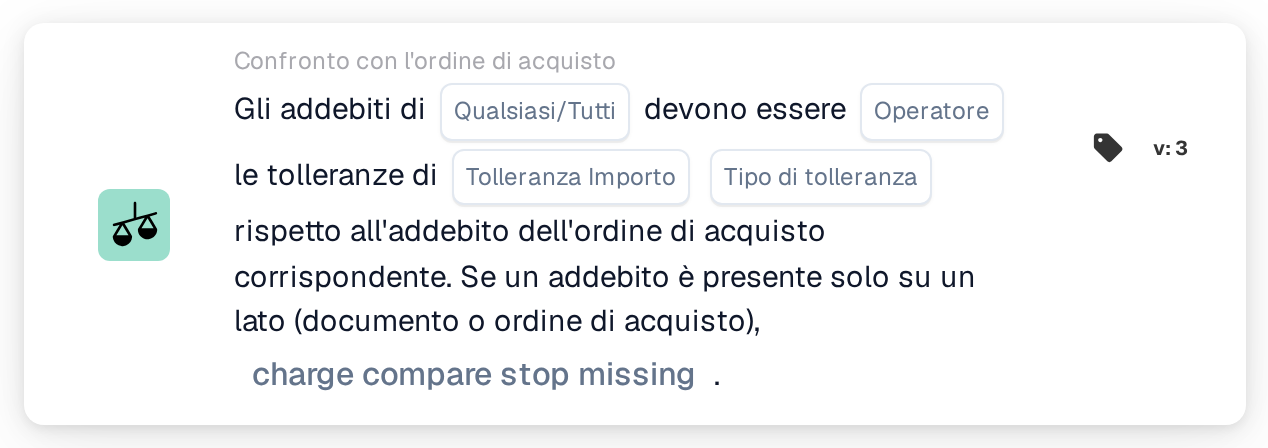
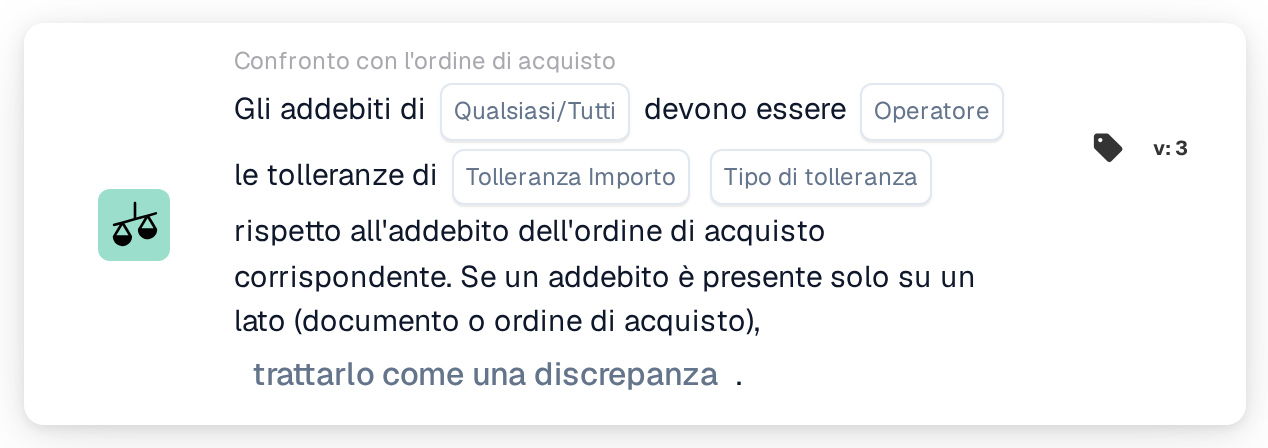
[Documentation_Workflow_Cards] [DRFS-871] add compare charges to po v4

Changed region(s): [[0.1845, 0.8125, 0.5844, 0.875]]

diff --git a/public_docs/administration-and-setup/workflow/and/compare-with-purchase-order/any-all-charges.md b/public_docs/administration-and-setup/workflow/and/compare-with-purchase-order/any-all-charges.md
@@ -4,13 +4,15 @@
 
 <figure><img src="../../../../.gitbook/assets/workflow_card_condition_compare_charges_to_po_v3-it-it.png" alt="Qualsiasi/tutti gli addebiti, Versione 3" width="634"><figcaption><p>Versione 3</p></figcaption></figure>
 
+<figure><img src="../../../../.gitbook/assets/workflow_card_condition_compare_charges_to_po_v4-it-it.png" alt="Scheda di Workflow Confronto con l&#x27;ordine di acquisto: Gli addebiti di Qualsiasi/Tutti devono essere Operatore le tolleranze di Tolleranza Importo Tipo di tolleranza rispetto all&#x27;addebito dell&#x27;ordine di acquisto corrispondente; anche un addebito di 0,00 viene confrontato. Se un addebito è presente solo su un lato (documento o ordine di acquisto), Comportamento relativo ai dati mancanti, Versione 4" width="634"><figcaption><p>Versione 4</p></figcaption></figure>
+
 ## **Scopo:**
 
-Questa scheda di workflow confronta gli addebiti accessori di un documento con gli addebiti accessori dell'ordine di acquisto corrispondente, entro una tolleranza definita. Risponde a una sola domanda: documento e ordine di acquisto concordano sugli addebiti accessori? Viene confrontato ogni addebito che l'abbinamento dell'ordine di acquisto ha appaiato, per cui sulla scheda non occorre indicare alcun nome di campo.
+Questa scheda di Workflow confronta gli addebiti accessori di un documento con gli addebiti accessori dell'ordine di acquisto corrispondente, entro una tolleranza definita. Risponde a una sola domanda: documento e ordine di acquisto concordano sugli addebiti accessori? Viene confrontato ogni addebito che l'abbinamento dell'ordine di acquisto ha appaiato, per cui sulla scheda non occorre indicare alcun nome di campo.
 
 Questa scheda si distingue da **Confronta i costi totali**, che confronta un singolo campo del documento con un unico addebito individuato tramite un Charge ID. Usare questa scheda quando tutti gli addebiti appaiati del documento devono essere verificati in una sola volta.
 
-L'abbinamento dell'ordine di acquisto deve essere eseguito prima di questa scheda. Se il documento non ha un ordine di acquisto corrispondente, la scheda arresta il workflow e segnala dati mancanti.
+L'abbinamento dell'ordine di acquisto deve essere eseguito prima di questa scheda. Se il documento non ha un ordine di acquisto corrispondente, la scheda arresta il Workflow e segnala dati mancanti.
 
 ## **Componenti della scheda:**
 
@@ -31,11 +33,11 @@ L'abbinamento dell'ordine di acquisto deve essere eseguito prima di questa sched
    * **Opzioni**:
      * **Percentuale**: una percentuale dell'addebito dell'ordine di acquisto.
      * **Valore**: un importo fisso.
-5. **Comportamento relativo ai dati mancanti (solo versione 3):**
-   * **Descrizione**: Cosa fare quando un addebito è presente solo su un lato, nel documento o nell'ordine di acquisto, così che non esiste una controparte con cui confrontarlo. L'opzione si trova alla fine della frase della versione 3.
+5. **Comportamento relativo ai dati mancanti (versioni 3 e 4):**
+   * **Descrizione**: Cosa fare quando un addebito è presente solo su un lato, nel documento o nell'ordine di acquisto, così che non esiste una controparte con cui confrontarlo. L'opzione si trova alla fine della frase.
    * **Opzioni**:
-     * **trattarlo come una discrepanza**: il workflow si arresta. È l'impostazione predefinita.
-     * **ignorarlo e trattarlo come corrispondente**: il workflow prosegue come se l'addebito avesse concordato.
+     * **trattarlo come una discrepanza**: il Workflow si arresta. È l'impostazione predefinita.
+     * **ignorarlo e trattarlo come corrispondente**: il Workflow prosegue come se l'addebito avesse concordato.
 
 ## **Funzionalità:**
 
@@ -43,42 +45,58 @@ La scheda percorre i passaggi seguenti.
 
 1. **Richiede un ordine di acquisto corrispondente.** Senza ordine di acquisto corrispondente la scheda si arresta immediatamente e segnala dati mancanti.
 2. **Legge la tolleranza** da **Tolleranza Importo** e **Tipo di tolleranza** sulla scheda.
-3. **La versione 3 classifica ogni riga di ordine di acquisto appaiata** in una di quattro situazioni, chiedendo soltanto se ciascun lato porta un qualsiasi addebito: addebiti su entrambi i lati, nessun addebito su alcuno dei due lati, addebiti solo nel documento, o addebiti solo nell'ordine di acquisto. Una riga che non può essere ricondotta ai dati dell'ordine di acquisto del documento è un errore di dati e la scheda si arresta.
+3. **Le versioni 3 e 4 classificano ogni riga di ordine di acquisto appaiata** in una di quattro situazioni: addebiti su entrambi i lati, nessun addebito su alcuno dei due lati, addebiti solo nel documento, o addebiti solo nell'ordine di acquisto. La versione 3 chiede soltanto se ciascun lato porta un addebito superiore a 0,00. La versione 4 esamina ogni coppia di addebiti e considera 0,00 un valore; solo un addebito senza alcun importo conta come mancante. Vedere **Differenze tra le versioni** più avanti. Una riga che non può essere ricondotta ai dati dell'ordine di acquisto del documento è un errore di dati e la scheda si arresta.
 4. **Un addebito presente su un solo lato decide l'intera scheda.** Appena una riga appaiata porta addebiti su un lato e nessuno sull'altro, **Comportamento relativo ai dati mancanti** decide il risultato e nessun addebito viene confrontato, nemmeno gli addebiti delle righe correttamente appaiate. Operatore e tolleranza non vengono consultati.
-5. **Se nessuna riga porta addebiti su alcuno dei due lati**, entrambi i lati concordano che non vi sono addebiti accessori. L'operatore **All'esterno** non risulta perciò soddisfatto, poiché nulla differisce oltre la tolleranza, e il workflow si arresta. Qualsiasi altro operatore considera l'accordo soddisfatto e il workflow prosegue. **Comportamento relativo ai dati mancanti** non ha alcun effetto qui.
+5. **Se nessuna riga porta addebiti su alcuno dei due lati**, entrambi i lati concordano che non vi sono addebiti accessori. L'operatore **All'esterno** non risulta perciò soddisfatto, poiché nulla differisce oltre la tolleranza, e il Workflow si arresta. Qualsiasi altro operatore considera l'accordo soddisfatto e il Workflow prosegue. **Comportamento relativo ai dati mancanti** non ha alcun effetto qui.
 6. **Altrimenti ogni addebito viene confrontato**, importo del documento contro importo dell'ordine di acquisto, con operatore e tolleranza. Un importo di addebito che non è un numero arresta la scheda con dati mancanti.
-7. **I confronti vengono riuniti e combinati una sola volta.** Ogni addebito di ogni riga appaiata contribuisce a un unico insieme di risultati, che l'impostazione **Qualsiasi/Tutti** riduce all'unico risultato della scheda. La riunione è a livello di documento, non per riga, così che **Qualsiasi** significa qualsiasi addebito in qualsiasi punto del documento. Se il risultato combinato è vero il workflow prosegue, altrimenti si arresta con una condizione non soddisfatta.
+7. **I confronti vengono riuniti e combinati una sola volta.** Ogni addebito di ogni riga appaiata contribuisce a un unico insieme di risultati, che l'impostazione **Qualsiasi/Tutti** riduce all'unico risultato della scheda. La riunione è a livello di documento, non per riga, così che **Qualsiasi** significa qualsiasi addebito in qualsiasi punto del documento. Se il risultato combinato è vero il Workflow prosegue, altrimenti si arresta con una condizione non soddisfatta.
 
 Tre conseguenze vale la pena conoscere prima di configurare la scheda.
 
 * **entro con una tolleranza di 0 richiede l'uguaglianza esatta.** I due importi devono concordare al centesimo.
 * **Un addebito presente su un solo lato prevale su tutto il resto.** Poiché il passaggio 4 viene eseguito prima di qualsiasi confronto, **ignorarlo e trattarlo come corrispondente** salta anche la verifica degli importi di ogni addebito correttamente appaiato del documento. Mantenere **trattarlo come una discrepanza** se gli importi devono essere verificati.
-* **trattarlo come una discrepanza arresta il workflow come errore, non come condizione non soddisfatta.** Nonostante la formulazione, la scheda segnala dati mancanti, che il registro del workflow e il test della scheda mostrano in rosso e non in arancione come una condizione non soddisfatta. Il workflow si arresta in entrambi i casi.
+* **trattarlo come una discrepanza arresta il Workflow come errore, non come condizione non soddisfatta.** Nonostante la formulazione, la scheda segnala dati mancanti, che il registro del Workflow e il test della scheda mostrano in rosso e non in arancione come una condizione non soddisfatta. Il Workflow si arresta in entrambi i casi.
 
 ## **Installazione e configurazione:**
 
-Aggiungere la scheda come condizione And dopo l'abbinamento dell'ordine di acquisto. Scegliere se ogni addebito o qualsiasi addebito deve soddisfare il confronto, scegliere l'operatore **entro** o **All'esterno** e inserire importo e tipo di tolleranza. Nella versione 3, scegliere cosa deve avvenire quando gli addebiti compaiono su un solo lato.
+Aggiungere la scheda come condizione And dopo l'abbinamento dell'ordine di acquisto. Scegliere se ogni addebito o qualsiasi addebito deve soddisfare il confronto, scegliere l'operatore **entro** o **All'esterno** e inserire importo e tipo di tolleranza. Nelle versioni 3 e 4, scegliere cosa deve avvenire quando gli addebiti compaiono su un solo lato.
 
 Per provare una configurazione senza attendere un documento, aprire il menu della scheda nel Workflow Builder, scegliere **Scheda di prova**, scegliere un documento e poi **Test sul documento**. Il registro della scheda elenca ogni addebito confrontato con entrambi gli importi, l'operatore e la tolleranza usata, e annota anche quale valore di **Comportamento relativo ai dati mancanti** ha deciso il risultato quando un addebito era presente su un solo lato.
 
 ## **Scenario di esempio:**
 
-Una conferma d'ordine porta un addebito di trasporto di 100,00 e la riga di ordine di acquisto corrispondente porta lo stesso addebito di trasporto di 100,00. Con **Tutti**, l'operatore **entro** e una tolleranza di 0 come valore, gli importi sono uguali, la scheda è soddisfatta e il workflow prosegue.
+Una conferma d'ordine porta un addebito di trasporto di 100,00 e la riga di ordine di acquisto corrispondente porta lo stesso addebito di trasporto di 100,00. Con **Tutti**, l'operatore **entro** e una tolleranza di 0 come valore, gli importi sono uguali, la scheda è soddisfatta e il Workflow prosegue.
 
-Con 120,00 sulla conferma d'ordine contro 100,00 sull'ordine di acquisto, la stessa configurazione non è soddisfatta e il workflow si arresta con una condizione non soddisfatta.
+Con 120,00 sulla conferma d'ordine contro 100,00 sull'ordine di acquisto, la stessa configurazione non è soddisfatta e il Workflow si arresta con una condizione non soddisfatta.
 
-Se né la conferma d'ordine né l'ordine di acquisto porta alcun addebito, l'operatore **entro** lo considera un accordo e il workflow prosegue, mentre **All'esterno** lo arresta.
+Se né la conferma d'ordine né l'ordine di acquisto porta alcun addebito, l'operatore **entro** lo considera un accordo e il Workflow prosegue, mentre **All'esterno** lo arresta.
 
-Se la conferma d'ordine porta un addebito di trasporto e l'ordine di acquisto nessuno, l'operatore non si applica più. Con **trattarlo come una discrepanza** il workflow si arresta, così che qualcuno possa verificare perché l'addebito figura su un solo lato.
+Se la conferma d'ordine porta un addebito di trasporto e l'ordine di acquisto nessuno, l'operatore non si applica più. Con **trattarlo come una discrepanza** il Workflow si arresta, così che qualcuno possa verificare perché l'addebito figura su un solo lato.
+
+Se la conferma d'ordine riporta l'addebito di trasporto come 0,00 mentre l'ordine di acquisto porta 204,00, la versione 4 confronta i due importi e il Workflow si arresta con una condizione non soddisfatta. La versione 3 leggerebbe lo 0,00 come "nessun addebito nel documento" e lascerebbe il risultato a **Comportamento relativo ai dati mancanti**.
 
 ## **Differenze tra le versioni:**
 
-La versione 3 è quella usata dalle schede nuove. La versione 2 resta supportata nei workflow esistenti. Entrambe le versioni confrontano addebito per addebito e combinano i risultati a livello di documento con l'impostazione **Qualsiasi/Tutti**, ma la versione 2 non ha una classificazione per casi, il che cambia ciò che avviene appena gli addebiti non sono presenti su entrambi i lati:
+La versione 4 è quella usata dalle schede nuove. Le versioni 2 e 3 restano supportate nei Workflow esistenti.
+
+### Versione 4 rispetto alla versione 3
+
+Le due versioni hanno le stesse impostazioni e gli stessi passaggi. Differiscono solo nel modo in cui viene trattato un addebito di 0,00:
+
+* **La versione 3 tratta 0,00 come nessun addebito.** Un addebito del documento di 0,00 appaiato a un addebito dell'ordine di acquisto di 204,00 vale come "l'ordine di acquisto ha addebiti, il documento nessuno", per cui decide **Comportamento relativo ai dati mancanti** e gli importi non vengono mai confrontati. Con **ignorarlo e trattarlo come corrispondente** il Workflow prosegue, sebbene gli importi differiscano.
+* **La versione 4 confronta 0,00 come un importo.** La stessa coppia viene confrontata come qualsiasi altra: 0,00 contro 204,00 non rientra nella tolleranza, per cui il Workflow si arresta con una condizione non soddisfatta. Anche una coppia con 0,00 su entrambi i lati viene confrontata e concorda.
+* **Un addebito senza importo resta mancante nella versione 4.** Quando un lato di una coppia non ha alcun importo, per esempio un addebito che l'ordine di acquisto non porta, decide **Comportamento relativo ai dati mancanti**, come nella versione 3.
+
+Per ottenere questo comportamento in un Workflow esistente, sostituire la scheda della versione 3 con una scheda della versione 4 e impostare gli stessi valori.
+
+### Versione 2
+
+Anche la versione 2 confronta addebito per addebito e combina i risultati a livello di documento con l'impostazione **Qualsiasi/Tutti**, ma non ha una classificazione per casi, il che cambia ciò che avviene appena gli addebiti non sono presenti su entrambi i lati:
 
 * La versione 2 non ha l'opzione **Comportamento relativo ai dati mancanti**. La sua frase termina dopo il tipo di tolleranza.
-* La versione 2 non classifica le righe appaiate e perciò non riconosce un addebito presente su un solo lato. Confronta l'importo presente contro lo 0,00 mantenuto per il lato mancante, e l'operatore decide: **entro** non è soddisfatto e il workflow si arresta, **All'esterno** è soddisfatto e il workflow prosegue. Il registro della scheda mostra il confronto contro 0,00.
+* La versione 2 non classifica le righe appaiate e perciò non riconosce un addebito presente su un solo lato. Confronta l'importo presente contro lo 0,00 mantenuto per il lato mancante, e l'operatore decide: **entro** non è soddisfatto e il Workflow si arresta, **All'esterno** è soddisfatto e il Workflow prosegue. Il registro della scheda mostra il confronto contro 0,00.
 * Se nessuno dei due lati porta addebiti, la versione 2 non ha nulla da confrontare e segnala dati mancanti invece di considerare l'assenza su entrambi i lati come un accordo.
 
 ## **Conclusione:**
 
-La scheda "Any / All Charges" automatizza la verifica che gli addebiti accessori fatturati o confermati corrispondano agli addebiti accessori ordinati. Poiché l'assenza di addebiti su entrambi i lati vale come accordo nella versione 3, i documenti senza addebiti accessori passano senza intervento manuale, mentre gli addebiti che compaiono su un solo lato vengono trattenuti per la verifica, a meno che ciò non sia deliberatamente consentito.
+La scheda "Any / All Charges" automatizza la verifica che gli addebiti accessori fatturati o confermati corrispondano agli addebiti accessori ordinati. Poiché l'assenza di addebiti su entrambi i lati vale come accordo nelle versioni 3 e 4, i documenti senza addebiti accessori passano senza intervento manuale, mentre gli addebiti che compaiono su un solo lato vengono trattenuti per la verifica, a meno che ciò non sia deliberatamente consentito.
